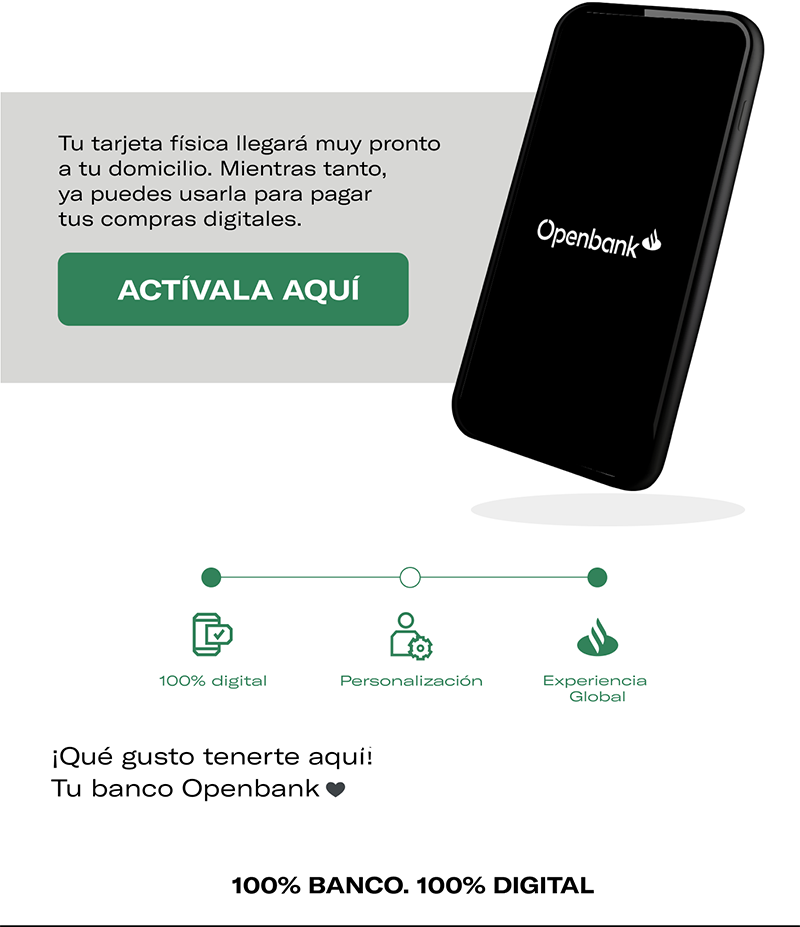
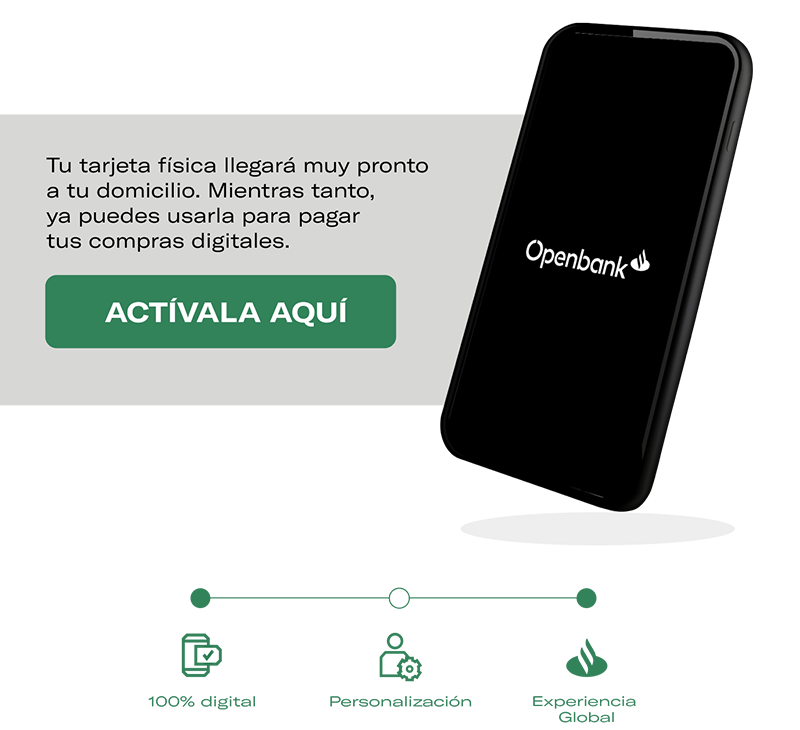
update

diff --git a/OB_MX_08.html b/OB_MX_08.html
@@ -470,7 +470,7 @@
             </tr>
             <td style="background-color:#fff;text-align: center;">
               <table border="0" cellpadding="0" cellspacing="0" width="100%" class="templateColumns darkmodeBackground"
-        style="-webkit-text-size-adjust:100%;-ms-text-size-adjust:100%;mso-table-lspace:0pt;mso-table-rspace:0pt;mso-default-height:100%;mso-default-width:100%;mso-space-above:no;mso-space-below:no;margin:0;padding:0;width:100%;max-width:400px;border-collapse:collapse !important;border-spacing:0 !important;table-layout:fixed !important;padding:0 !important;margin: 0; padding: 0; max-width: 400px; margin:auto;">
+        style="-webkit-text-size-adjust:100%;-ms-text-size-adjust:100%;mso-table-lspace:0pt;mso-table-rspace:0pt;mso-default-height:100%;mso-default-width:100%;mso-space-above:no;mso-space-below:no;margin:-100px auto 0;padding:0;width:100%;max-width:400px;border-collapse:collapse !important;border-spacing:0 !important;table-layout:fixed !important;">
                 <tr>
                   <td style="background-color:#fff;text-align: center;"><h2 style="font-size: 40px;color:#000; margin:0;font-family: 'GT-America-Extended', sans-serif;">Hola, ${name}</h2>
               <p style="font-size: 26px;color:#000; margin:0; font-family: 'GT-America-Extended', sans-serif;">Gracias por abrir tu Cuenta Débito Open Light.</p></td>
